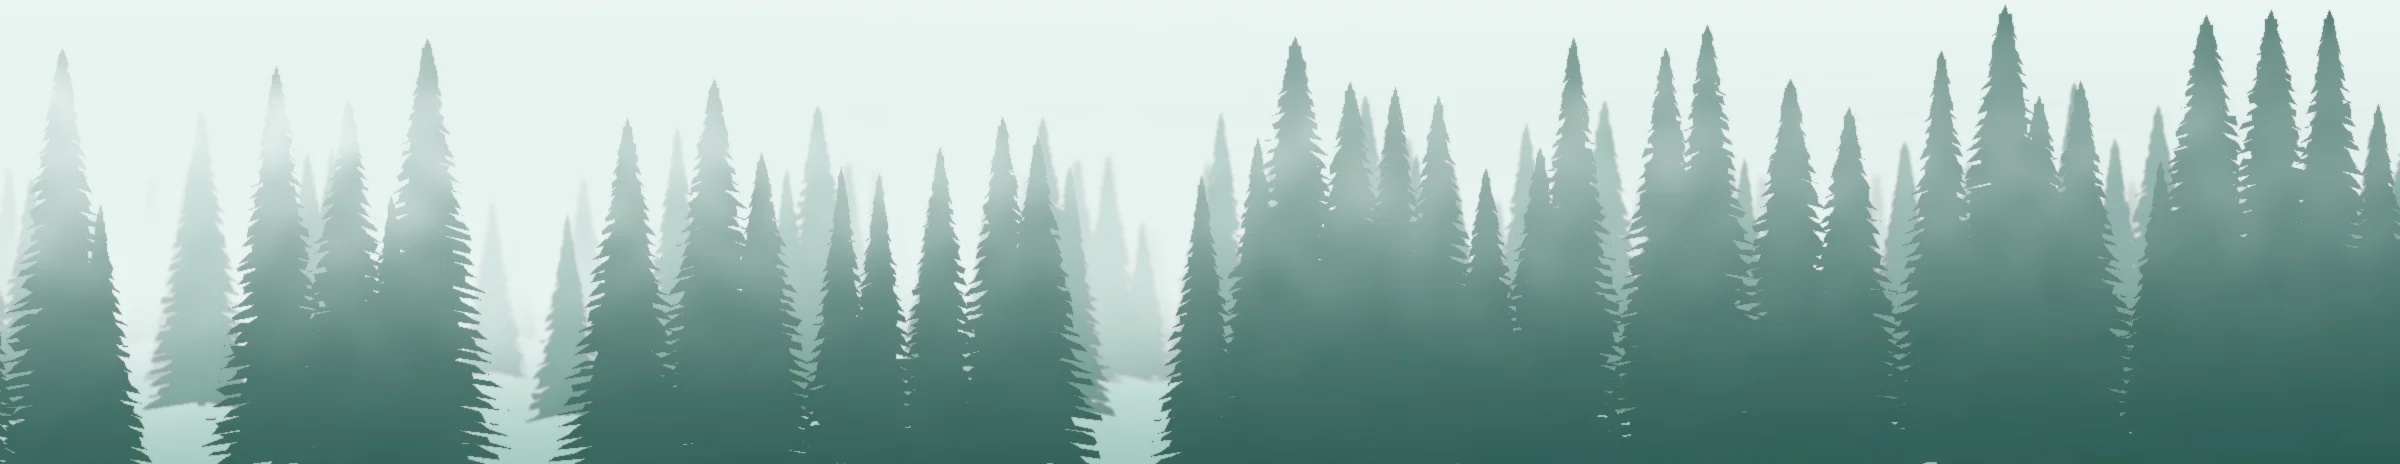
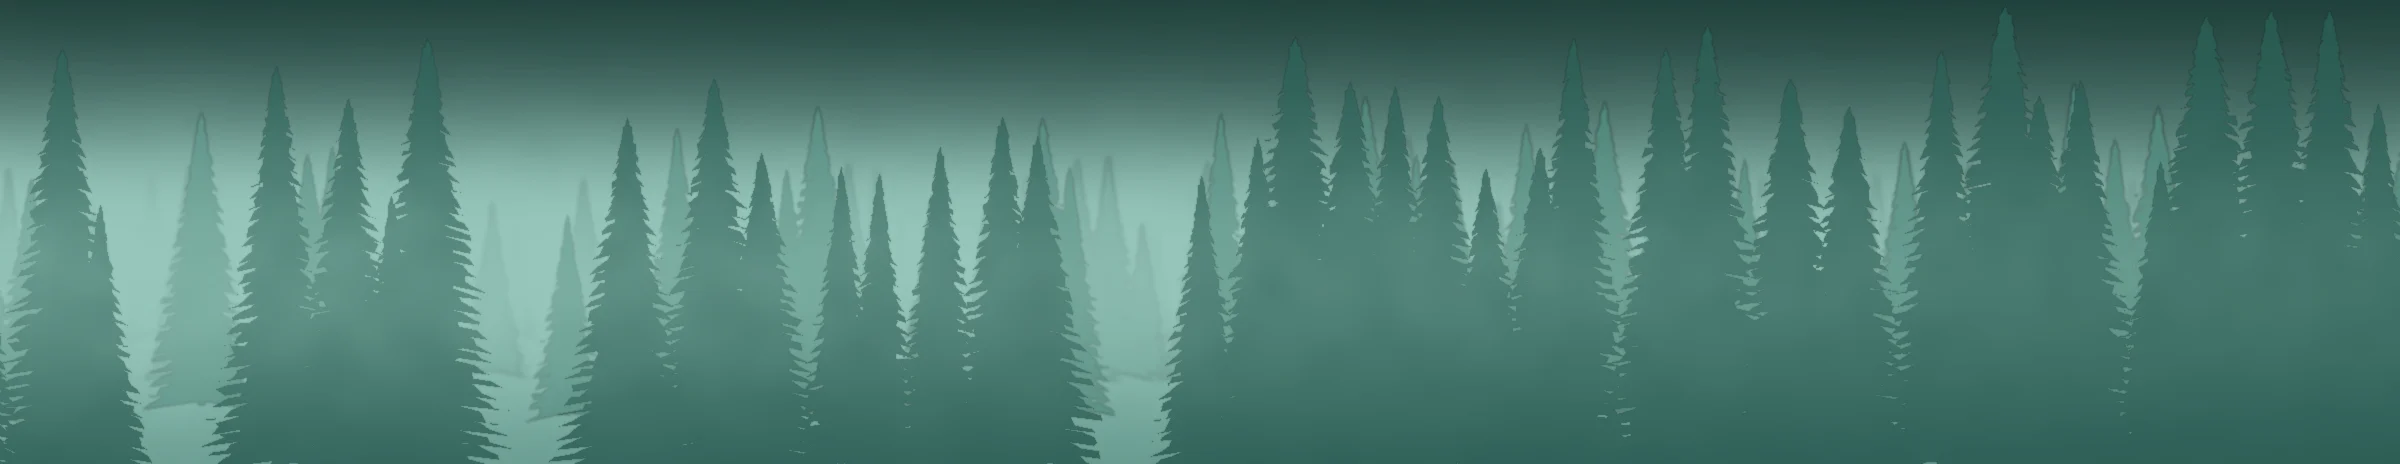
Landing: darker teal wordmark forest so it blends with the page

diff --git a/dashboard/src/pages/Landing.jsx b/dashboard/src/pages/Landing.jsx
@@ -159,11 +159,15 @@ function Wordmark() {
   return (
     <svg viewBox="0 0 1200 232" className="mx-auto block w-full max-w-6xl select-none" role="img" aria-label="Carbonomics">
       <defs>
+        <linearGradient id="wm-soft" x1="0" y1="0" x2="0" y2="1">
+          <stop offset="0" stopColor="#fff" stopOpacity=".55" /><stop offset=".5" stopColor="#fff" stopOpacity="1" />
+        </linearGradient>
+        <mask id="wm-mask"><rect width="1200" height="232" fill="url(#wm-soft)" /></mask>
         <clipPath id="wm-clip">
           <text x="600" y="212" textAnchor="middle" fontFamily="Newsreader, Georgia, serif" fontWeight="500" fontSize="250" letterSpacing="-6" textLength="1180" lengthAdjust="spacingAndGlyphs">carbonomics</text>
         </clipPath>
       </defs>
-      <g clipPath="url(#wm-clip)">
+      <g clipPath="url(#wm-clip)" mask="url(#wm-mask)">
         <rect width="1200" height="232" fill="#a6d2c8" />
         <image href="./wordmark-forest.webp" width="1200" height="232" preserveAspectRatio="xMidYMid slice" />
       </g>

diff --git a/scripts/make_wordmark_forest.py b/scripts/make_wordmark_forest.py
@@ -17,7 +17,7 @@ def lerp(a, b, t):
 
 
 def sky():
-    top, bot = (236, 246, 243), (190, 220, 211)
+    top, bot = (30, 62, 57), (132, 182, 170)
     img = Image.new("RGB", (W, H))
     d = ImageDraw.Draw(img)
     for y in range(H):
@@ -69,7 +69,7 @@ def fog(strength, y0, y1, left_extra):
     noise = (noise - noise.min()) / (noise.max() - noise.min())
     a = np.clip(a * (0.75 + 0.5 * noise), 0, 1)
     im = np.zeros((H, W, 4), np.uint8)
-    im[..., :3] = (232, 243, 240)
+    im[..., :3] = (150, 198, 186)
     im[..., 3] = (a * 255).astype(np.uint8)
     return Image.fromarray(im, "RGBA")
 
@@ -79,19 +79,19 @@ img = sky().convert("RGBA")
 mt = Image.new("RGBA", (W, H), (0, 0, 0, 0)); d = ImageDraw.Draw(mt)
 xs = np.arange(0, W + 40, 40)
 ridge = 260 + 28 * np.sin(xs / 260) + 18 * np.sin(xs / 90 + 1) + rng.normal(0, 4, len(xs))
-d.polygon([(0, H)] + list(zip(xs, ridge)) + [(W, H)], fill=(150, 192, 182, 255))
+d.polygon([(0, H)] + list(zip(xs, ridge)) + [(W, H)], fill=(92, 144, 133, 255))
 img.alpha_composite(mt.filter(ImageFilter.GaussianBlur(5)))
 img.alpha_composite(fog(0.7, 200, 330, 0.5))
 # conifer layers, far to near
 for base, hmin, hmax, step, col, blur, bias, fg in [
-    (330, 90, 150, 26, (118, 168, 156), 3.2, 0.2, 0.40),
+    (330, 90, 150, 26, (100, 154, 142), 3.2, 0.2, 0.40),
     (370, 120, 210, 30, (84, 136, 124), 2.2, 0.35, 0.28),
     (410, 170, 290, 38, (64, 120, 108), 1.2, 0.5, 0.16),
     (470, 250, 420, 52, (38, 88, 79), 0.5, 0.6, 0.05),
 ]:
     img.alpha_composite(layer(base, hmin, hmax, step, col, blur, bias))
     img.alpha_composite(fog(fg, base - hmax * 0.8, base - 10, 1.6))
-img.alpha_composite(fog(0.42, 0, H * 0.55, 1.2))  # light haze at the top, strongest on the left
+img.alpha_composite(fog(0.22, H * 0.35, H * 0.8, 1.2))  # soft haze in the middle, strongest on the left
 out = img.convert("RGB")
 out = Image.blend(out, out.filter(ImageFilter.GaussianBlur(0.8)), 0.25)
 out.save(os.path.join(root, "dashboard/public/wordmark-forest.webp"), quality=86)
